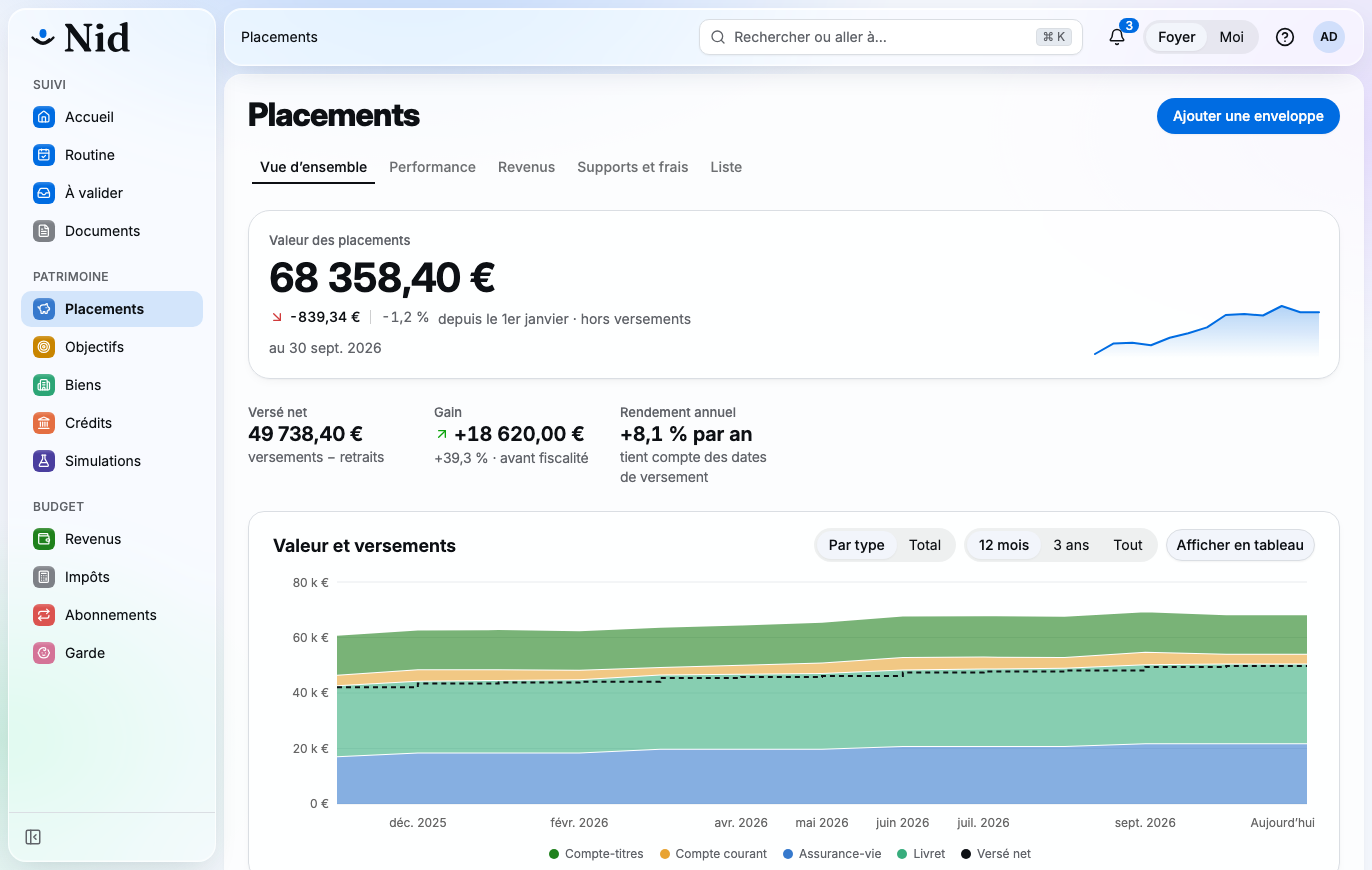
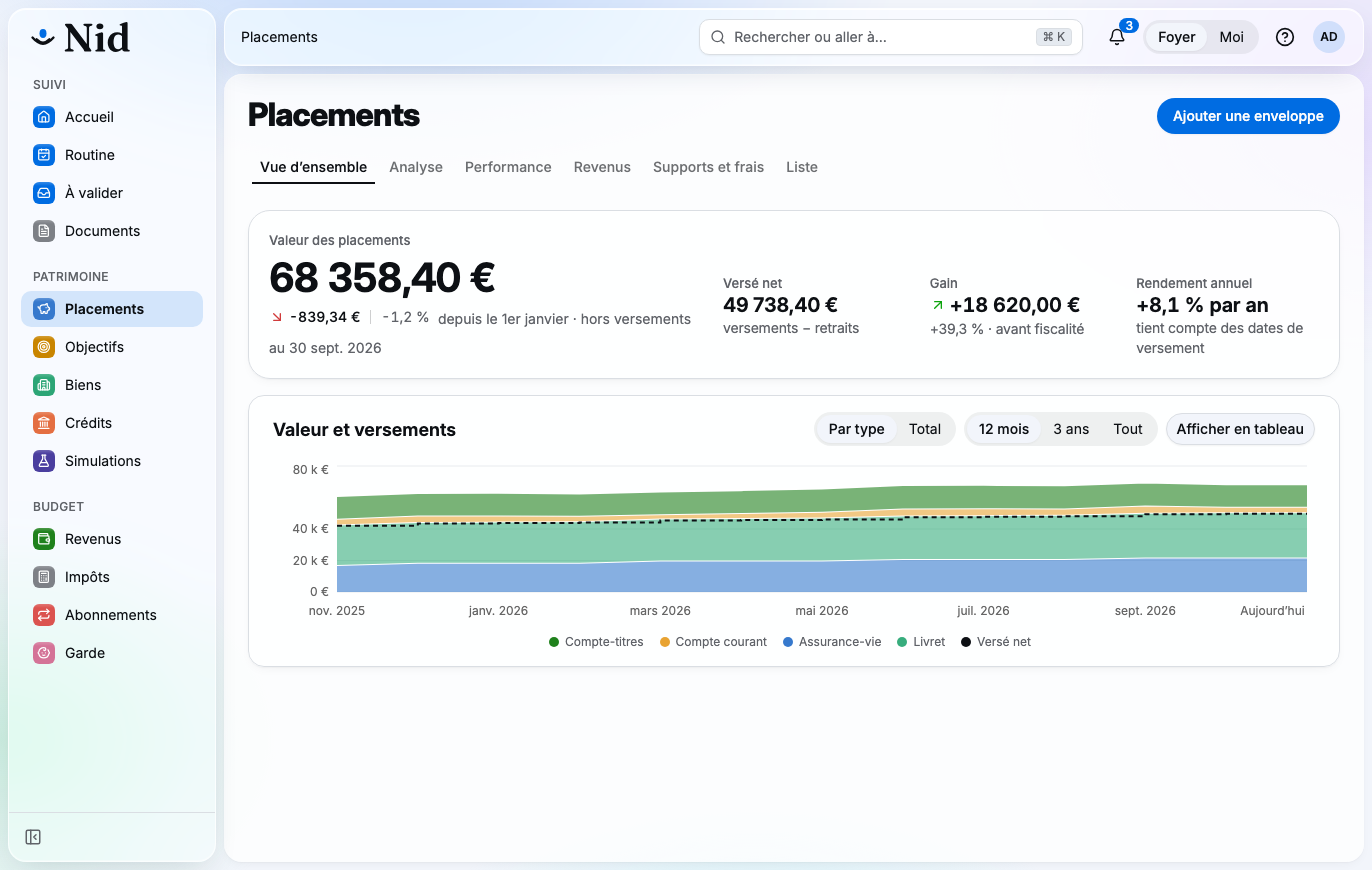
Docs: recapture the overview screenshots after the simple views (#20) (#113)
The overview captures showed the hero with its curve and the figures in a line under it. They are retaken from the demo household on a fresh database, light and dark, at 1372×870: the figures in the hero's card, then the chart, with the « Analyse » tab in the bar.

diff --git a/docs/frontend/screens.md b/docs/frontend/screens.md
@@ -236,7 +236,7 @@ Réservée aux admins (`../identity-and-access/administration-and-audit.md` §2)
 
 ## 13. Captures
 
-Une capture par type de page, en clair et en sombre, à 1372×870, thème `ardoise` (`screens/`). Ce sont les vraies pages, rendues avec les données des tests (`renderApp` et les gestionnaires MSW) : le DOM des tests et le CSS construit, axes des graphiques rendus sans mesure du texte, dans la coquille : barre latérale, barre du haut et fenêtre de contenu. Les dates et montants sont ceux des tests. Les règles derrière chaque page : `design-system.md` §6.1.
+Une capture par type de page, en clair et en sombre, à 1372×870, thème `ardoise` (`screens/`). Ce sont les vraies pages, rendues avec les données des tests (`renderApp` et les gestionnaires MSW) : le DOM des tests et le CSS construit, axes des graphiques rendus sans mesure du texte, dans la coquille : barre latérale, barre du haut et fenêtre de contenu. Les dates et montants sont ceux des tests, sauf la vue d’ensemble : elle est prise dans l’app qui tourne (`aspire run`) sur une base neuve où seul le foyer de démo est chargé (`deploy/local/demo/load.mjs`), connecté en Alice (recapturée pour l’issue #20). Les règles derrière chaque page : `design-system.md` §6.1.
 
 | Type | Clair | Sombre | Ce qu'elle montre |
 |---|---|---|---|
